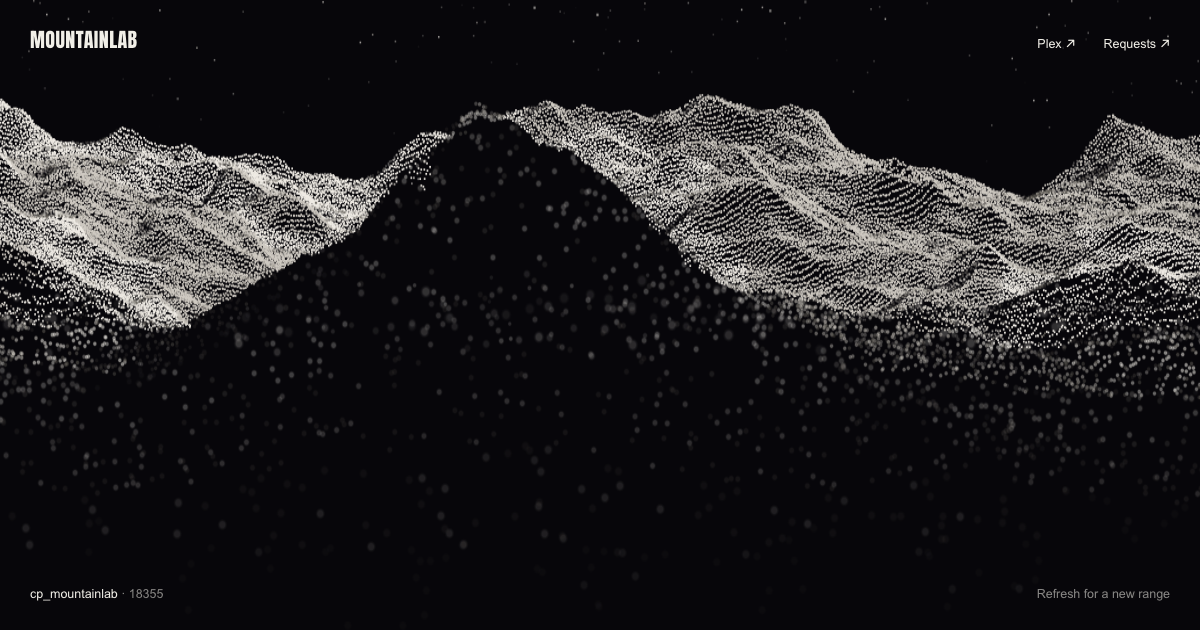
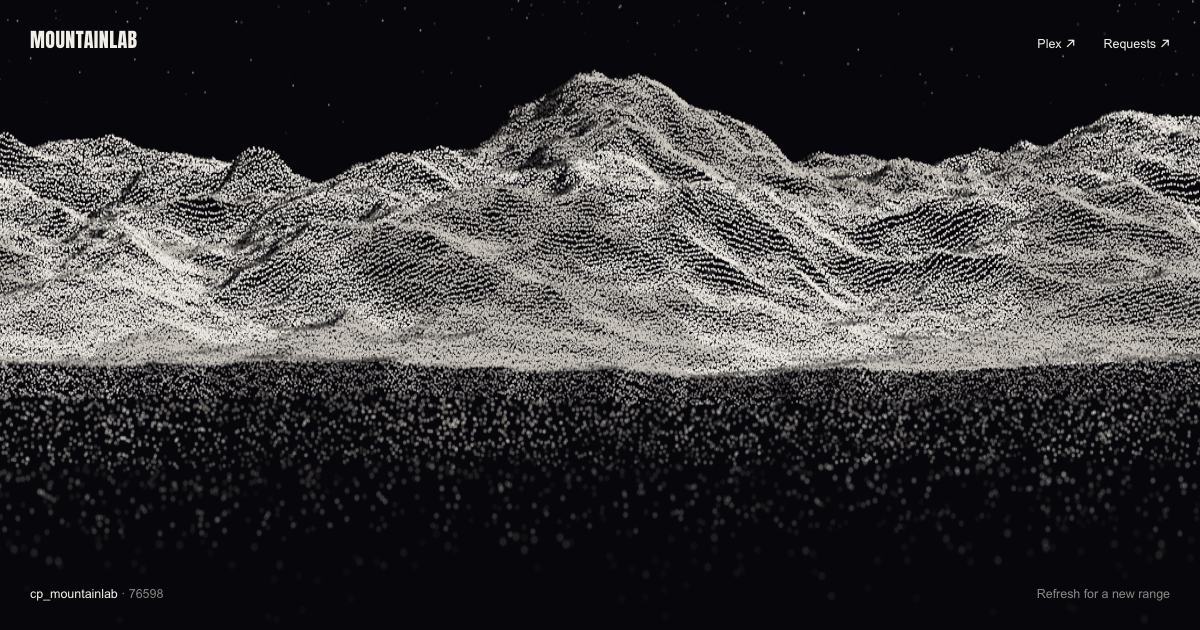
Move the middle hill into the range as a lit summit; keep the foreground flat

diff --git a/components/Mountains.js b/components/Mountains.js
@@ -34,31 +34,49 @@ function buildScene(w, h, seed) {
   // Depth z runs 0 (farthest ridge) to 1 (foot of the range), then on to FOREGROUND: low
   // hills nearer the viewer that sink toward the bottom of the screen.
   const baseAt = (z) => (z <= 1 ? h * (0.36 + 0.26 * z) : h * (0.62 + 0.45 * (z - 1)));
-  const ampAt = (z) => (z <= 1 ? h * (0.22 + 0.08 * z) : h * 0.3 * (1 - 0.75 * (z - 1)));
-  // A single dark hill rises in the middle of the foreground, in front of the range. Its exact
-  // position and width vary by seed.
-  const hill = { x: 0.4 + rand() * 0.2, width: 0.16 + rand() * 0.08, near: 0.32 + rand() * 0.08 };
-  const hillAt = (x, near) => {
-    // Width is measured against the longer side so the hill keeps its shape on phones.
-    const dx = (x - hill.x * w) / (hill.width * Math.max(w, h));
-    const dz = (near - hill.near) / 0.22;
-    // A rougher falloff than a plain bell curve, so the outline reads as land, not a blob.
-    const rough = 1 + 0.35 * fbm(noise, (x / span) * 9 + 90, near * 4 + 90, 4);
-    return Math.exp(-Math.pow(Math.abs(dx), 1.5) - dz * dz) * rough;
+  // The range's nearest rows settle into low foothills, so its front edge sits fairly even
+  // along the bottom of the range instead of rising into peaks of its own.
+  const foothills = (z) => {
+    const t = Math.max(0, Math.min(1, (z - 0.6) / 0.4));
+    return 1 - 0.8 * t * t * (3 - 2 * t);
+  };
+  const ampAt = (z) => (z <= 1 ? h * (0.22 + 0.08 * z) * foothills(z) : h * 0.3 * (1 - 0.75 * (z - 1)));
+  // A taller summit rises from the middle of the range, so the scene has a clear centre. Its
+  // exact position, width and depth vary by seed.
+  const peak = { x: 0.4 + rand() * 0.2, width: 0.1 + rand() * 0.05, z: 0.3 + rand() * 0.15 };
+  const peakAt = (x, z) => {
+    // Width is measured against the longer side so the summit keeps its shape on phones.
+    const dx = (x - peak.x * w) / (peak.width * Math.max(w, h));
+    const dz = (z - peak.z) / 0.22;
+    // A rougher falloff than a plain bell curve, so the outline reads as rock, not a blob.
+    const rough = 1 + 0.3 * fbm(noise, (x / span) * 9 + 90, z * 4 + 90, 4);
+    return Math.exp(-Math.pow(Math.abs(dx), 1.5) - dz * dz) * rough * h * 0.17;
   };
   const heightAt = (x, z) => {
     const u = (x / span) * 3 * Math.max(0.35, 1.3 - 0.5 * z) + offset;
     const v = z * 2.6 + offset;
-    const n = fbm(noise, u, v, 5) * 0.7 + (ridged(noise, u * 0.55, v * 0.55) - 0.45) * 1.1;
-    if (z <= 1) return n;
-    const near = (z - 1) / (FOREGROUND - 1);
-    // The foreground settles into fairly even ground, easing out of the range's relief so
-    // there is no seam; only the hill rises above it.
-    const t = Math.min(1, near / 0.4);
-    const settle = t * t * (3 - 2 * t);
-    return n * (1 - 0.82 * settle) + hillAt(x, near) * 1.7;
+    return fbm(noise, u, v, 5) * 0.7 + (ridged(noise, u * 0.55, v * 0.55) - 0.45) * 1.1;
   };
-  const yAt = (x, z) => baseAt(z) - (heightAt(x, z) + 0.3) * ampAt(z);
+
+  // Height of the range's front edge (z = 1), sampled once per pixel column.
+  const frontLift = new Float32Array(Math.ceil(W) + 16);
+  for (let i = 0; i < frontLift.length; i++) frontLift[i] = (heightAt(i - MARGIN - 8, 1) + 0.3) * ampAt(1) + peakAt(i - MARGIN - 8, 1);
+  const frontAt = (x) => {
+    const f = Math.max(0, Math.min(frontLift.length - 1.001, x + MARGIN + 8));
+    const i = Math.floor(f);
+    return frontLift[i] + (frontLift[i + 1] - frontLift[i]) * (f - i);
+  };
+
+  const yAt = (x, z) => {
+    if (z <= 1) return baseAt(z) - (heightAt(x, z) + 0.3) * ampAt(z) - peakAt(x, z);
+    // The foreground has no relief of its own: it slopes down from the range's front edge
+    // (so there is no seam) onto low, gently rolling ground.
+    const near = (z - 1) / (FOREGROUND - 1);
+    const t = Math.min(1, near / 0.3);
+    const settle = t * t * (3 - 2 * t);
+    const ground = (fbm(noise, (x / span) * 4 + 130, near * 3 + 130, 3) + 0.4) * h * 0.035;
+    return baseAt(z) - frontAt(x) * (1 - settle) - ground * settle;
+  };
 
   // Slopes that face the viewer and the upper-left light are lit; grazing slopes fall into
   // shade. Lit ground takes one of two tones from a broad band of noise, and its
@@ -114,7 +132,7 @@ function buildScene(w, h, seed) {
     }
   }
 
-  // The crest of the foreground hills catches a little light, outlining them against the range.
+  // The foreground's crest catches a little light, outlining it against the range.
   for (let x = 0; x <= W; x += 1.1) {
     const col = Math.round(x);
     const near = (zTop[col] - 1) / (FOREGROUND - 1);
@@ -123,7 +141,7 @@ function buildScene(w, h, seed) {
     const size = near < 0.1 ? 0 : near < 0.3 ? 1 : near < 0.55 ? 2 : 3;
     if (rand() > 0.9 * fade) continue;
     const level = Math.min(3, Math.floor(fade * 4));
-    // The rim stays crisp even where the hill behind it is out of focus.
+    // The rim stays crisp even where the ground behind it is out of focus.
     buckets[bucketOf(Math.min(size, 1), rand() < 0.75 ? 0 : 1, level)].push(x + (rand() - 0.5), fgTop[col] + rand() * 2.5);
   }
 

diff --git a/AGENTS.md b/AGENTS.md
@@ -34,15 +34,16 @@ inspired by cem hasimi's "fall" (stippled terrain on black), without its figure 
 
 ### The scene (`components/Mountains.js`)
 
-- **Range:** `ROWS` rows of terrain from far (z = 0) to the foot of the range (z = 1). A
-  floating-horizon pass walks rows near to far, so a dot only shows if it sits above every
-  nearer row in its column. Brightness follows a simple light model (slopes facing the
-  viewer and the upper-left are lit) in four alpha `LEVELS`.
+- **Range:** `ROWS` rows of terrain from far (z = 0) to the foot of the range (z = 1), with
+  one taller, lit summit (`peak`) rising near the middle. A floating-horizon pass walks
+  rows near to far, so a dot only shows if it sits above every nearer row in its column.
+  Brightness follows a simple light model (slopes facing the viewer and the upper-left are
+  lit) in four alpha `LEVELS`.
 - **Foreground:** rows continue past z = 1 to `FOREGROUND`, as ground that gets dimmer,
   sparser and out of focus (bigger, softer dots: `SIZES` / `SIZE_ALPHA`, drawn as radial
-  sprites) until it fades to black at the bottom of the screen. A single dark **hill**
-  rises in the middle of the foreground in front of the range; its crest gets a crisp,
-  faintly lit rim.
+  sprites) until it fades to black at the bottom of the screen. It stays flat: it slopes
+  down from the range's front edge onto low ground. A dark hill in the foreground was
+  tried and rejected (it read as a black peak blocking the range).
 - **Sky:** faint stars only above the ridgeline, a few twinkling.
 - **Motion:** on first load the range materialises dot by dot (dots are pre-shuffled and
   painted a slice per frame), then stars and mist fade in. A faint mist of soft dots drifts
